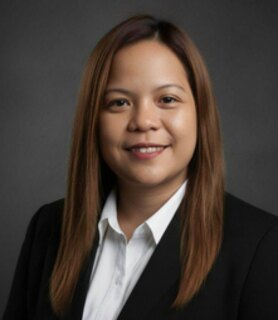
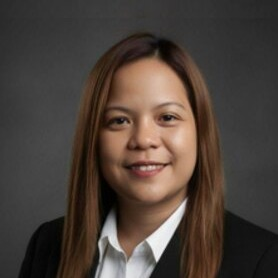
Give Lei's photo headspace, and declare the real image sizes
The crop was cutting into her head, not just sitting close to it. The
file was 278x320, and object-fit:cover on a square box scales by the
short side and then trims the overflow equally top and bottom — 21 rows
off each end. The top of her hair was at row 15, so the box started 6px
INTO it.

The file now carries 18 extra rows of backdrop above her, built by
stretching rows 0-11 (the band above the hair) rather than repeating a
single row, which would band, or mirroring, which would reach down into
the hair. It is cropped square at 278x278, so cover has no overflow to
trim and the framing in the file is exactly what renders — no centred
crop to fight. Head top sits at 33px, just under 12%.

Sharpness is untouched: the short side is still 278, so the ceiling of
139px on a 2x screen is what it was, and the worst measured case across
1920x1080@2x, 1440x900@2x, 1366x768 and 1280x720 is still 0.81x.

The last commit also set every photo's width/height to 320x320, which was
only true for three of them — john is 287x320 and michelle is 306x320, so
those two reserved the wrong aspect before the CSS applied. All five now
declare what they actually are, checked against the files.

Only lei was being cut into. gwen (35px clear) and john (19px) are fine;
martin and michelle have busy backgrounds, so a backdrop-based measure
says nothing about them either way.

Claude-Session: https://claude.ai/code/session_01GBLtJ9dCKyCHfbRy3ZeZCF

diff --git a/index.html b/index.html
@@ -461,9 +461,9 @@
         <div class="org-stem" aria-hidden="true"></div>
         <div class="org-branch" aria-hidden="true"><i></i><i></i><i></i></div>
         <div class="org-row">
-            <div class="org-card"><img src="/img/team/michelle.jpg" alt="Michelle Velarde" width="320" height="320" loading="lazy"><div><div class="org-name">Michelle “Mitch” Velarde</div><div class="org-role">Training Facilitator</div></div></div>
-            <div class="org-card"><img src="/img/team/john.jpg" alt="John Dela Cruz" width="320" height="320" loading="lazy"><div><div class="org-name">John “Mikee” Dela Cruz</div><div class="org-role">Upskill Coach</div></div></div>
-            <div class="org-card"><img src="/img/team/lei.jpg" alt="Lei Lee Ann Abut" width="320" height="320" loading="lazy"><div><div class="org-name">Lei Lee Ann “Lei” Abut</div><div class="org-role">Learning and Development Specialist / Upskill Coach</div></div></div>
+            <div class="org-card"><img src="/img/team/michelle.jpg" alt="Michelle Velarde" width="306" height="320" loading="lazy"><div><div class="org-name">Michelle “Mitch” Velarde</div><div class="org-role">Training Facilitator</div></div></div>
+            <div class="org-card"><img src="/img/team/john.jpg" alt="John Dela Cruz" width="287" height="320" loading="lazy"><div><div class="org-name">John “Mikee” Dela Cruz</div><div class="org-role">Upskill Coach</div></div></div>
+            <div class="org-card"><img src="/img/team/lei.jpg" alt="Lei Lee Ann Abut" width="278" height="278" loading="lazy"><div><div class="org-name">Lei Lee Ann “Lei” Abut</div><div class="org-role">Learning and Development Specialist / Upskill Coach</div></div></div>
         </div>
     </div>
 </section>
